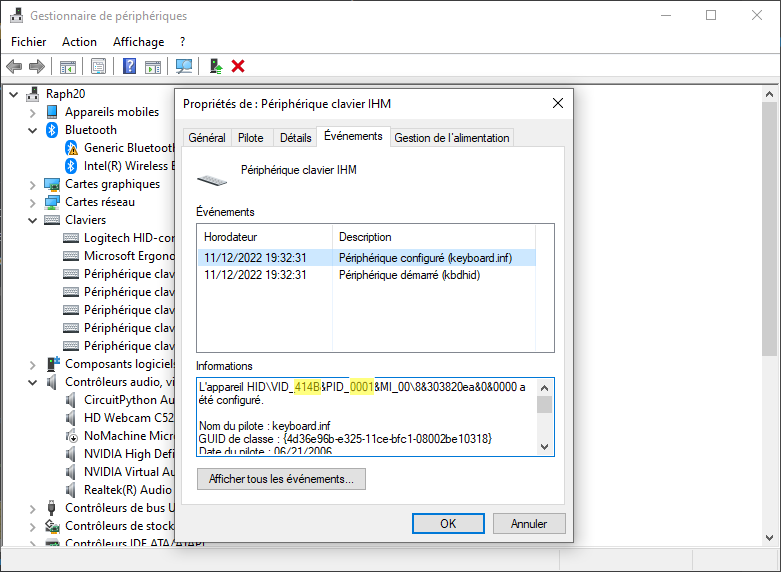
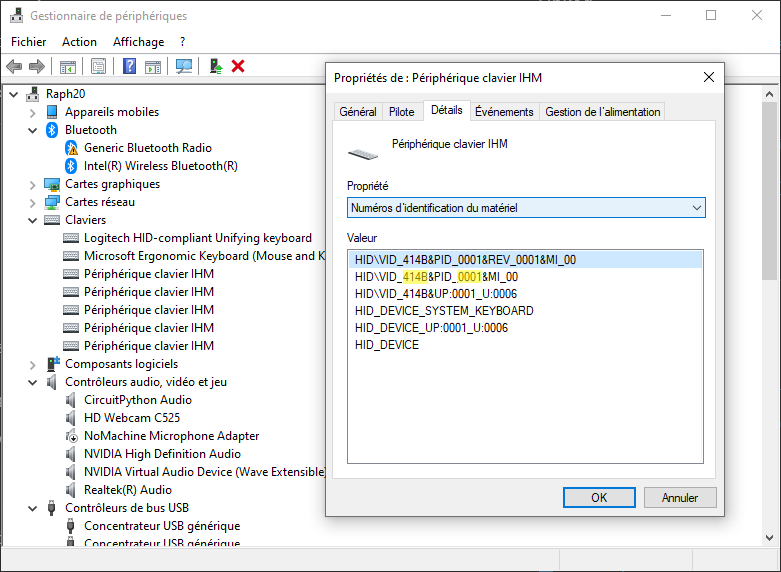
Doc update

Changed region(s): [[0.0307, 0.0892, 1.0, 0.9808], [0.9834, 0.9808, 1.0, 1.0]]

diff --git a/README.md b/README.md
@@ -4,9 +4,12 @@ On Screen Display keyboard layer name and layout image for QMK - Autohotkey base
 
 ## Overview
 
-This Autohotkey script listen to QMK HID debug messages sent on layer changes and notifies the user by displaying the layer name, a layout image and the layer index on the tray icon.
+This Autohotkey script listen to QMK HID debug messages sent on layer changes and notifies the user by displaying the layer index on the tray icon, a layout image and the layer name.
 
 ![Screen capture](./pictures/KBLayerHelper-with-legendes.png)
+
+Layout image and layer name are always-on-top, click-through windows, their position and duration can be configured in the .ini file.
+The tray icon menu allow to activate/deactivate the display.
 
 ## Requirements
 
@@ -19,9 +22,9 @@ Download and install [Autohotkey v1.1+](http://www.ahkscript.org/).
 Download [AHKHID](https://github.com/jleb/AHKHID) and copy `AHKHID.ahk` in _autohotkey/lib_ folder.
 Clone this repo.
 
-In QMK, enable console mode (`CONSOLE_ENABLE = yes` in your `rules.mk`) and in your `keymap.c`, include print.h and add the following function :
+In QMK, enable console mode (`CONSOLE_ENABLE = yes` in your `rules.mk`) and in your `keymap.c`, include _print.h_ and add the following function :
 
-```
+```c++
 #include "print.h"
 
 
@@ -36,21 +39,22 @@ layer_state_t layer_state_set_user(layer_state_t state) {
 }
 ```
 
-Edit `KBLayerHelper.ini` to fill your keyboard VendorID and ProductID. You can retrieve it using Windows Hardware :
+Edit `KBLayerHelper.ini` to fill your keyboard VendorID and ProductID.
+You can retrieve it using [USBDeview from Nirsoft](http://www.nirsoft.net/utils/usb_devices_view.html) or the Windows Device Manager :
 ![Retrieve keyboard VID and PID](./pictures/Device_VID_PID.png)
 
 ### KBLayerHelper.ini
 
-```
+```ini
 [Device]
 VendorId = 0x414B
-ProductId=0x0001
+ProductId = 0x0001
 
 [General]
-; Layout and layer name remain on screen if DisplayLock is on
+; Layout and layer name remain on screen if NoDisplayTimeout is on
 ; Duration has no effect
-DisplayLock =0
-; Hotkey to enable/disable DisplayLock
+NoDisplayTimeout =0
+; Hotkey to enable/disable NoDisplayTimeout.
 LockHotKey =+^!#F12
 
 ; Display layout image, as configured in [Layers] section
@@ -87,11 +91,11 @@ FontSize = 20
 ;   - Layout image to display
 [Layers]
 ; Layer Name, icon file, help image
-; default values :
-; "Layer N", "./icons/ico/Number-N.ico", "./png/Layer-N.png"
+; default : Layer N, ./icons/ico/Number-N.ico, ./png/Layer-N.png
 Layer0 = Base, ,./png/0Base_Layer.png
 Layer1 = Azerty, ,./png/1Azerty_Layer.png
-Layer2 = Symbol, ,./png/2Symbol_Layer.png
-Layer3 = Num,,./png/3Numpad_Layer.png
+Layer2 = Symbols, ,./png/2Symbol_Layer.png
+Layer3 = Numbers, ,./png/3Numpad_Layer.png
 Layer4 = Nav, ,./png/4Nav_Layer.png
+
 ```
